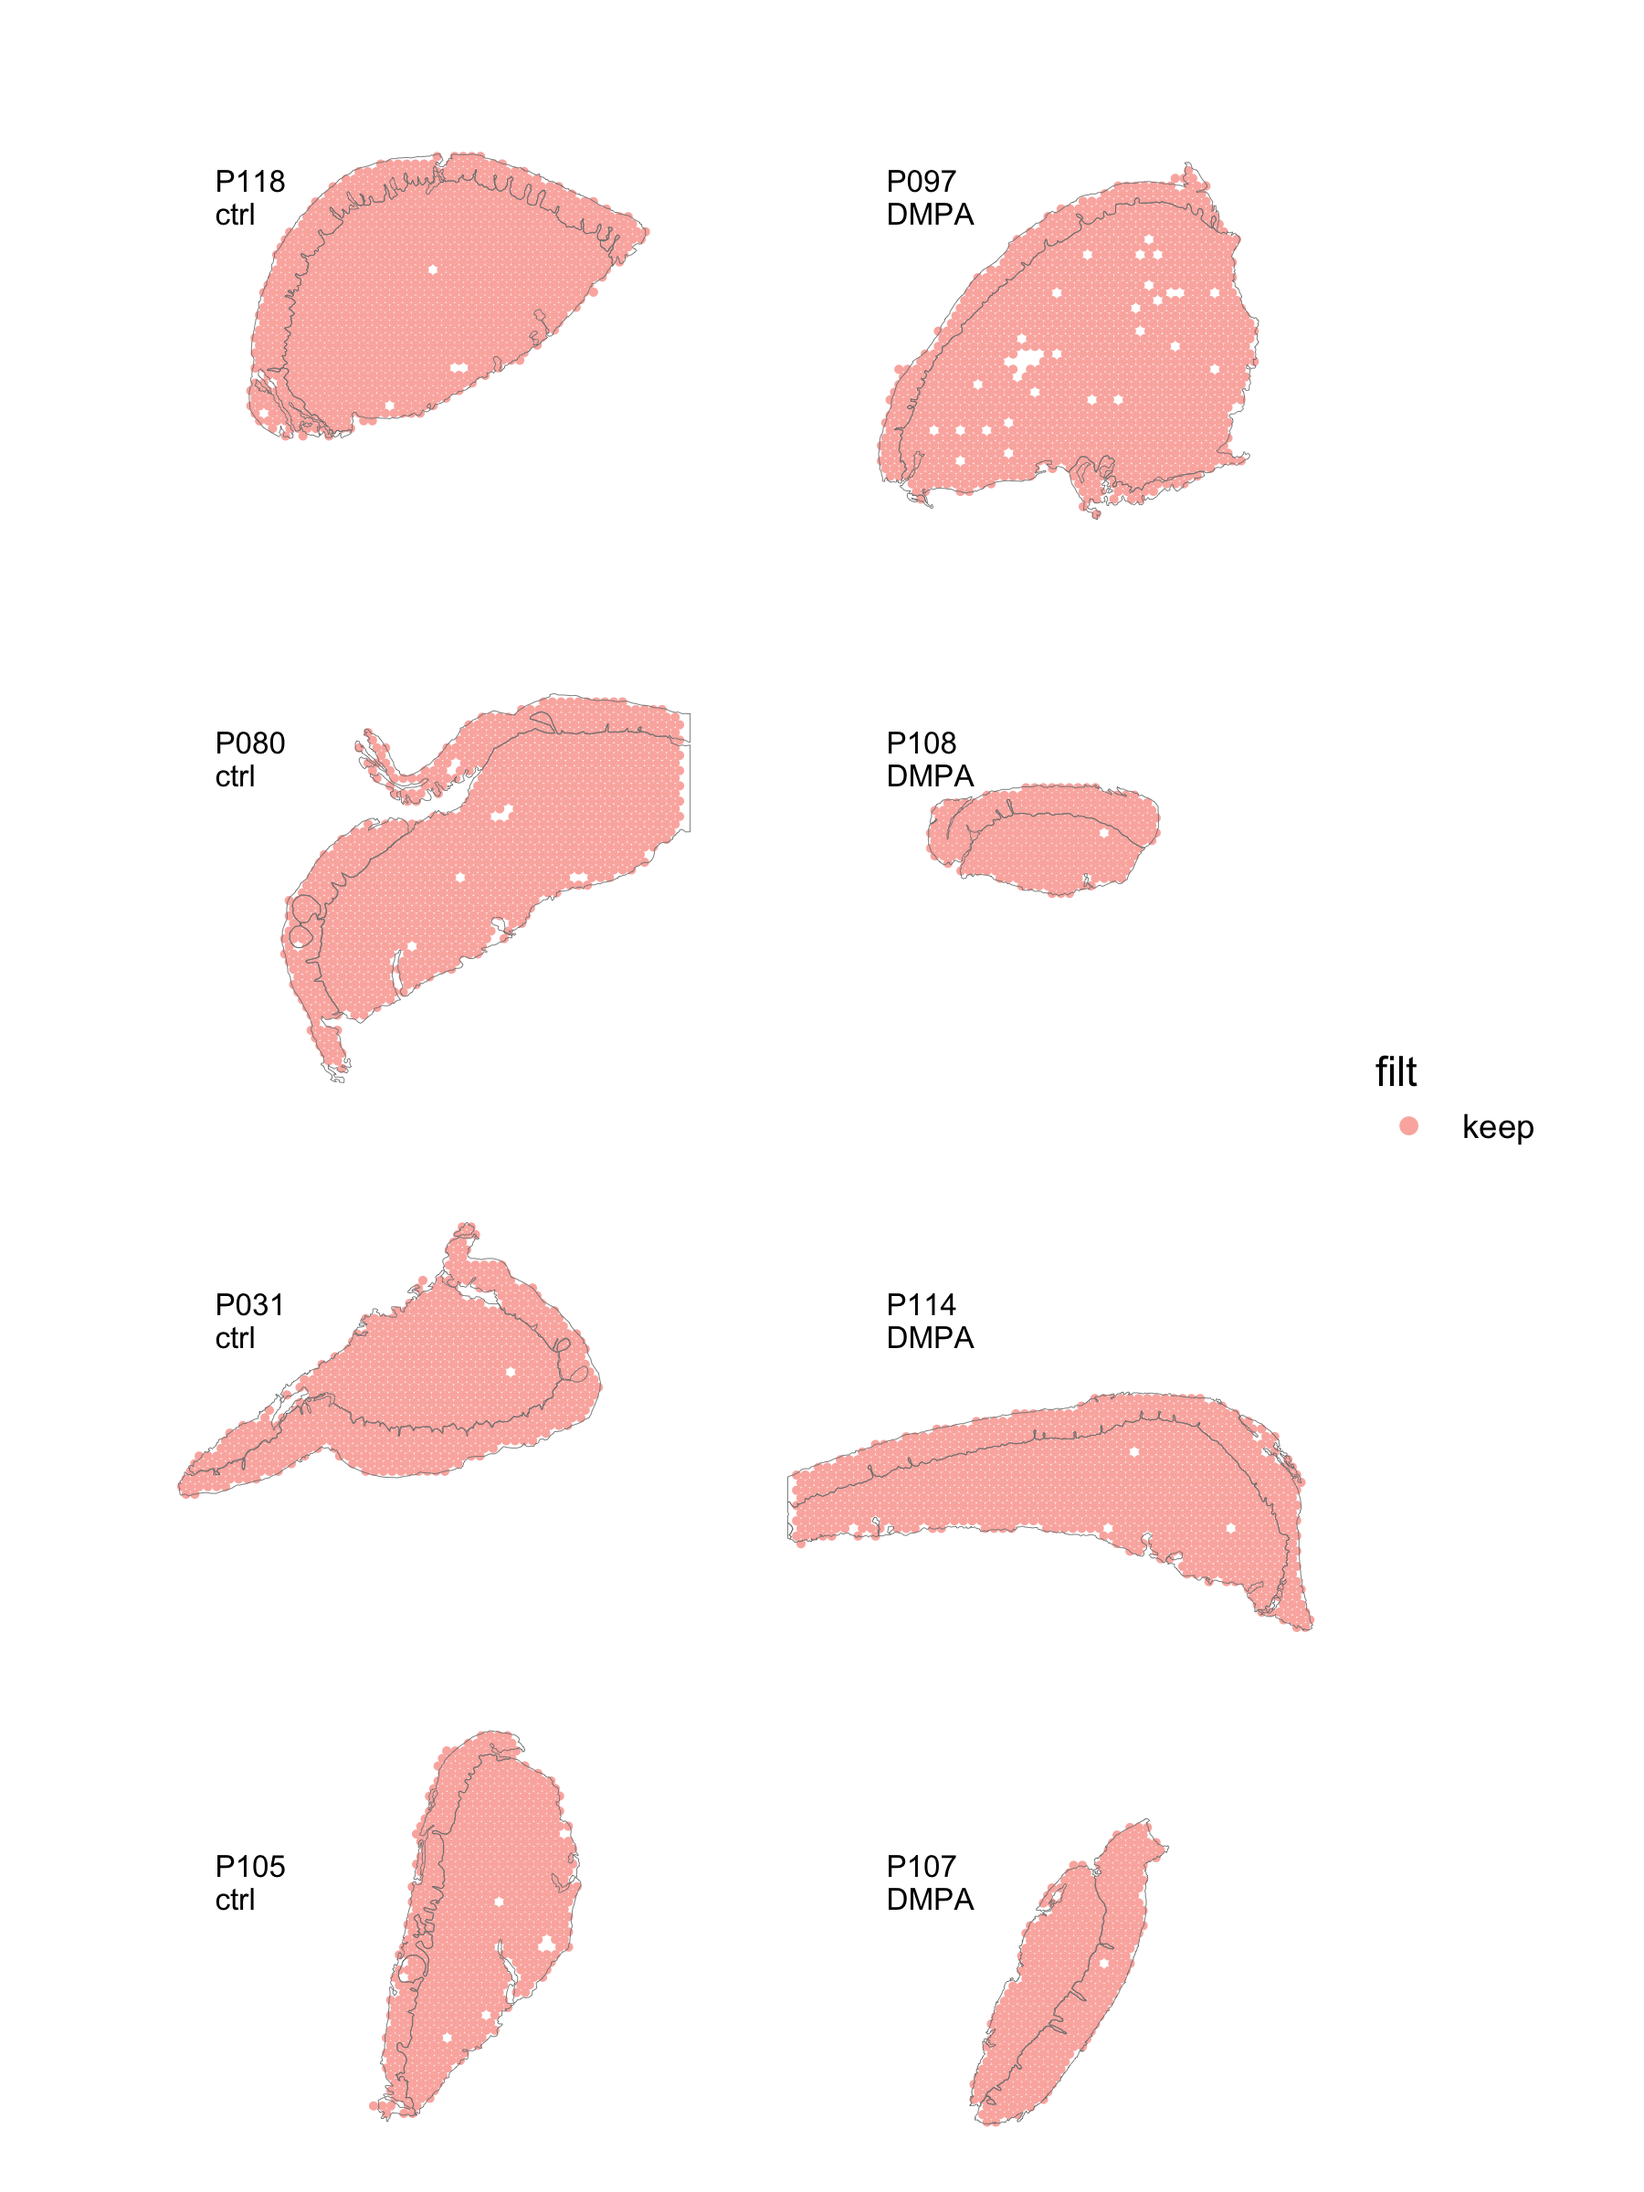
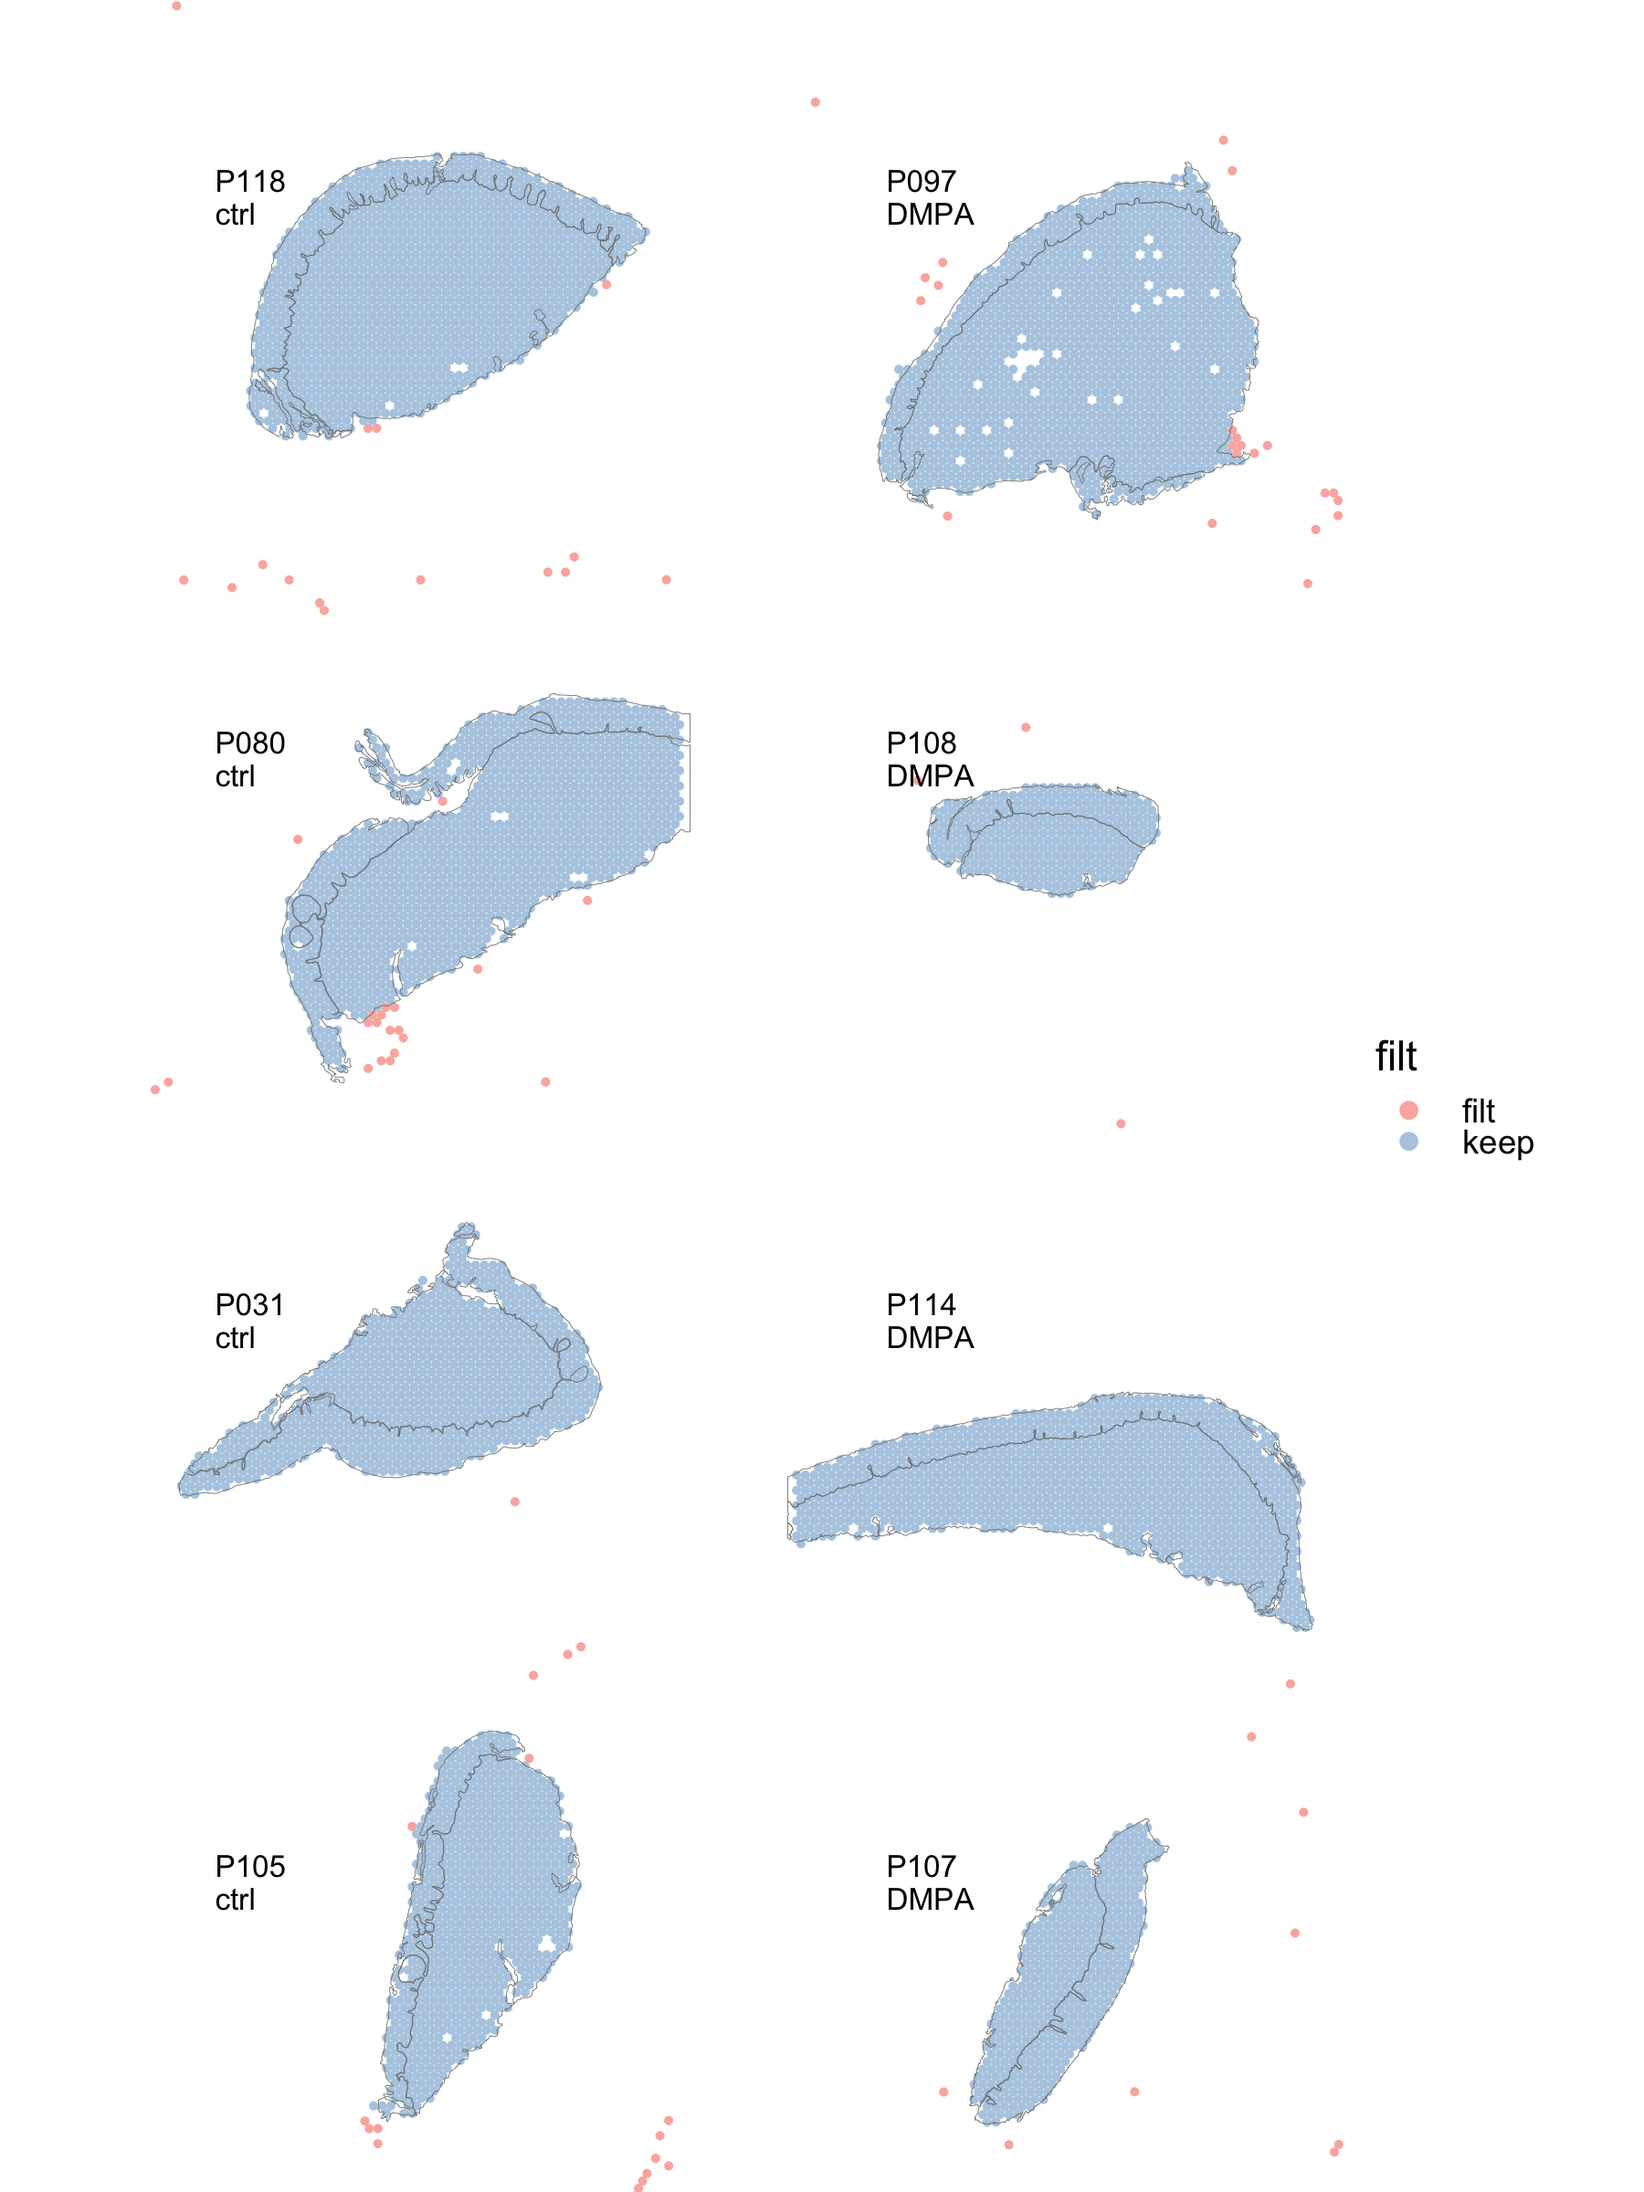
remove code that should not have been there

diff --git a/src/md_files/00_load_st_data.md b/src/md_files/00_load_st_data.md
@@ -338,7 +338,8 @@ DATA <-  DATA %>%
 # dev.new(width=7, height=3.5, noRStudioGD = TRUE)
 plot_spatial.fun(DATA, 
       sampleid=sample_id,
-      sp_annot = F,
+      sp_annot = F, 
+      alpha = 0,
       geneid = "nFeature_RNA",
       zoom = "zoom",
       ncol = 2,
@@ -348,17 +349,6 @@ plot_spatial.fun(DATA,
 ```
 
 <img src="../Figures/00/00a_plot_tissue.png" data-fig-align="center" />
-
-``` r
-DATA_st <- readRDS(paste0("../results/02_integrate_st_data/","seuratObj_integrated_old.RDS"))
-DATA <- readRDS(paste0("../results/01_QC_st_data/","seuratObj_filtered.RDS"))
-DATA_st@images <- DATA@images
-DATA_st@misc$alpha <- DATA@misc$alpha
-DATA_st@tools <- DATA@tools
-saveRDS(DATA_st, paste0("../results/02_integrate_st_data/","seuratObj_integrated.RDS"))
-
-DATA <- readRDS(paste0("../results/04_deconvolution_st_data/","seuratObj_deconvolution_scdc.RDS"))
-```
 
 ``` r
 # dev.new(height=7, width=6, noRStudioGD = TRUE)
@@ -480,7 +470,7 @@ data-fig-align="center" />
 dim(DATA)
 ```
 
-    [1] 22026  6598
+    [1] 36601  6700
 
 ``` r
 # Filter spots outside manual annotation
@@ -490,34 +480,27 @@ DATA$filt <- NULL
 dim(DATA)
 ```
 
-    [1] 22026  6598
+    [1] 36601  6612
 
 ``` r
 DATA
 ```
 
-    # A Seurat-tibble abstraction: 6,598 × 28
-    # [90mFeatures=22026 | Cells=6598 | Active assay=RNA | Assays=RNA, SCDC_clus,[0m
-    # [90m  SCDC_annot1, SCDC_annot2, misc[0m
-       .cell     groups sp_annot orig.ident layers nCount_RNA nFeature_RNA sp_annot2
-       <chr>     <chr>  <chr>    <chr>      <fct>       <dbl>        <int> <chr>    
-     1 P031_AAA… ctrl   SubMuc   P031       0             429          355 SubMuc   
-     2 P031_AAA… ctrl   SubMuc   P031       8            4052         2230 SubMuc   
-     3 P031_AAA… ctrl   epi      P031       Lower…       7566         2585 epi      
-     4 P031_AAA… ctrl   epi      P031       Basal       11378         3872 epi      
-     5 P031_AAA… ctrl   epi      P031       8            4602         2268 epi      
-     6 P031_AAA… ctrl   epi      P031       Basal        5517         2506 epi      
-     7 P031_AAA… ctrl   SubMuc   P031       4            1751         1081 SubMuc   
-     8 P031_AAA… ctrl   SubMuc   P031       0             780          475 <NA>     
-     9 P031_AAA… ctrl   SubMuc   P031       0             618          464 SubMuc   
-    10 P031_AAA… ctrl   SubMuc   P031       8            3539         1947 SubMuc   
-    # ℹ 6,588 more rows
-    # ℹ 20 more variables: percent_mito <dbl>, percent_hb <dbl>,
-    #   percent_ribo <dbl>, Clusters <fct>, PC_1 <dbl>, PC_2 <dbl>, PC_3 <dbl>,
-    #   PC_4 <dbl>, PC_5 <dbl>, UMAP_1 <dbl>, UMAP_2 <dbl>, harmony_1 <dbl>,
-    #   harmony_2 <dbl>, harmony_3 <dbl>, harmony_4 <dbl>, harmony_5 <dbl>,
-    #   umap_harmony_1 <dbl>, umap_harmony_2 <dbl>, umap_harmony_knn_1 <dbl>,
-    #   umap_harmony_knn_2 <dbl>
+    # A Seurat-tibble abstraction: 6,612 × 7
+    # [90mFeatures=36601 | Cells=6612 | Active assay=RNA | Assays=RNA[0m
+       .cell            groups sp_annot orig.ident nCount_RNA nFeature_RNA sp_annot2
+       <chr>            <chr>  <chr>    <chr>           <dbl>        <int> <chr>    
+     1 P031_AAACGAGACG… ctrl   SubMuc   P031              463          356 SubMuc   
+     2 P031_AAACTGCTGG… ctrl   SubMuc   P031             4081         2232 SubMuc   
+     3 P031_AAAGTAGCAT… ctrl   epi      P031             7595         2588 epi      
+     4 P031_AAAGTGTGAT… ctrl   epi      P031            11394         3873 epi      
+     5 P031_AAAGTTGACT… ctrl   epi      P031             4617         2270 epi      
+     6 P031_AAATACCTAT… ctrl   epi      P031             5538         2507 epi      
+     7 P031_AAATCGTGTA… ctrl   SubMuc   P031             1765         1084 SubMuc   
+     8 P031_AAATGGCCCG… ctrl   SubMuc   P031              789          477 <NA>     
+     9 P031_AAATTAACGG… ctrl   SubMuc   P031              639          465 SubMuc   
+    10 P031_AAATTTGCGG… ctrl   SubMuc   P031             3570         1948 SubMuc   
+    # ℹ 6,602 more rows
 
 ``` r
 # dev.new(height=7, width=6, noRStudioGD = TRUE)
